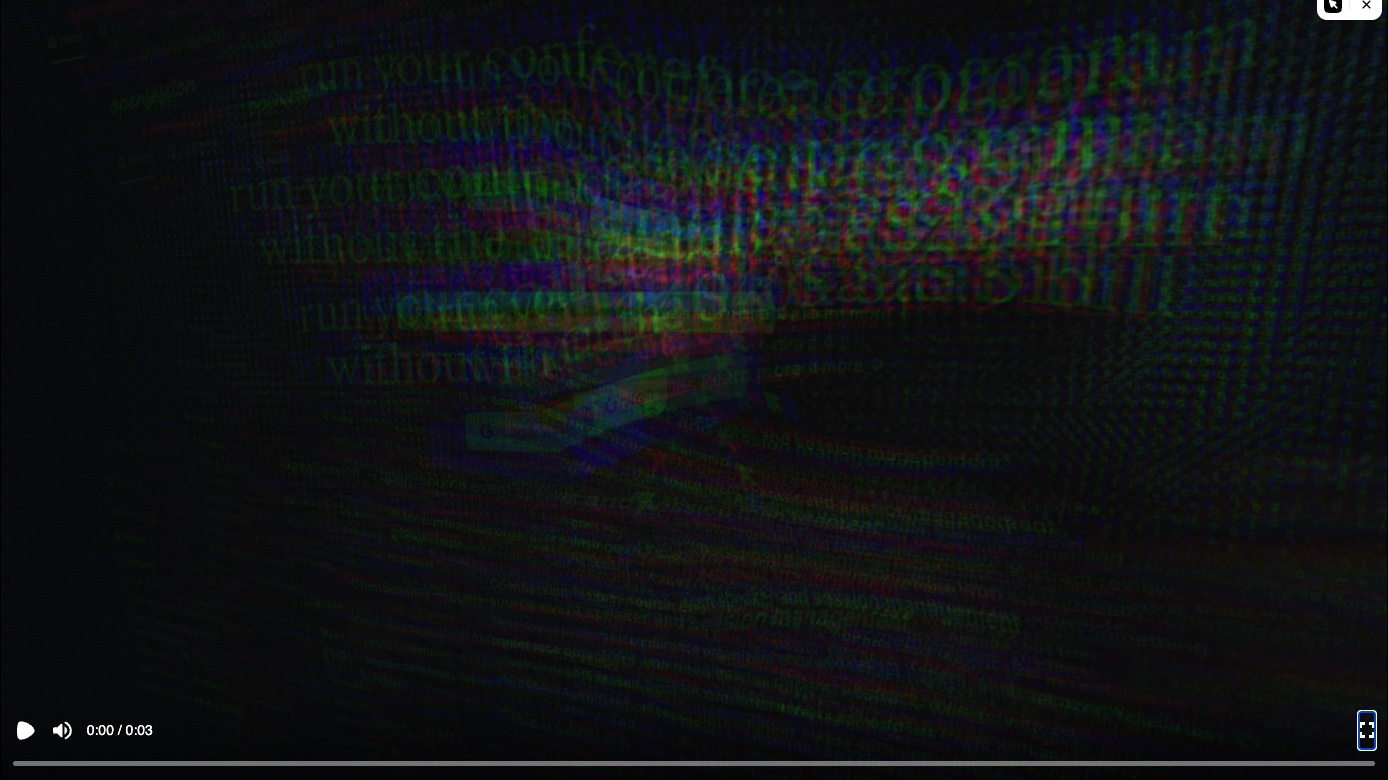
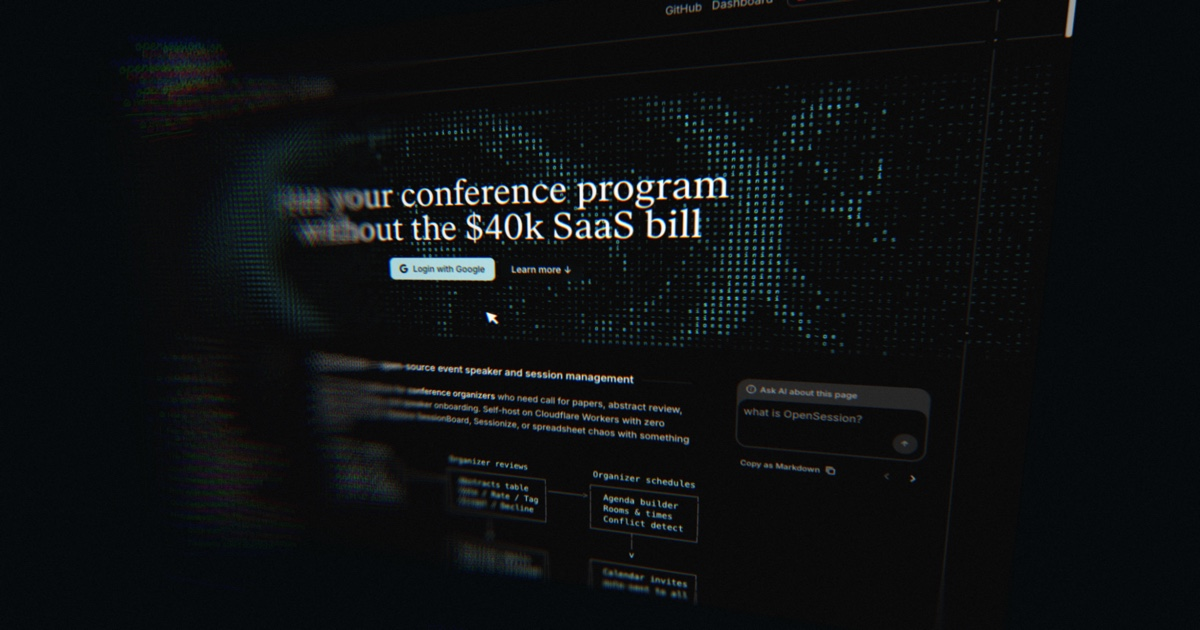
update OG image: egakiSDK angled screen with softer angle and blur, increase hero line height
Rendered via egakiSDK.screenshot at 2x (3840x2160) with reduced angle
(rotateX 7, rotateY -14) and softer blur (aperture 0.35, maxBlur 0.07).
Resized to 1200x630 JPEG for OG image standard dimensions.

Also changed hero h1 line-height from leading-none to leading-tight.

Session: ses_013aeb5ceffeuX696ch0jTe4Pr

diff --git a/website/src/components/hero-section.tsx b/website/src/components/hero-section.tsx
@@ -39,7 +39,7 @@ export function HeroSection() {
         }}
       >
         <h1
-          className='flex flex-col items-center leading-none text-[32px] sm:text-[44px] md:text-[54px] text-foreground'
+          className='flex flex-col items-center leading-tight text-[32px] sm:text-[44px] md:text-[54px] text-foreground'
           style={{ fontFamily: HERO_FONT }}
         >
           <span>run your conference program</span>
